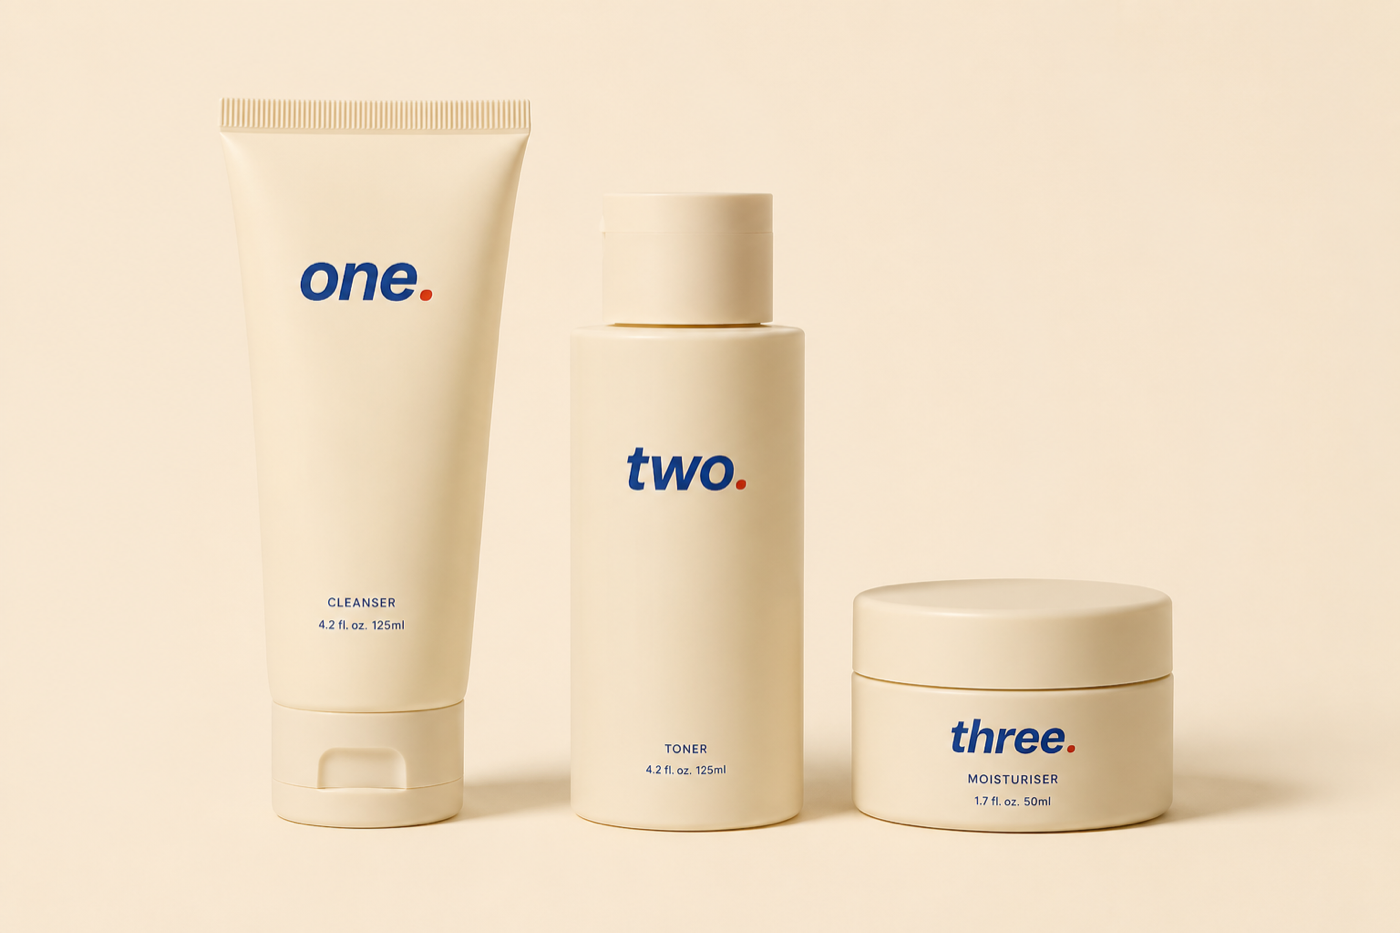
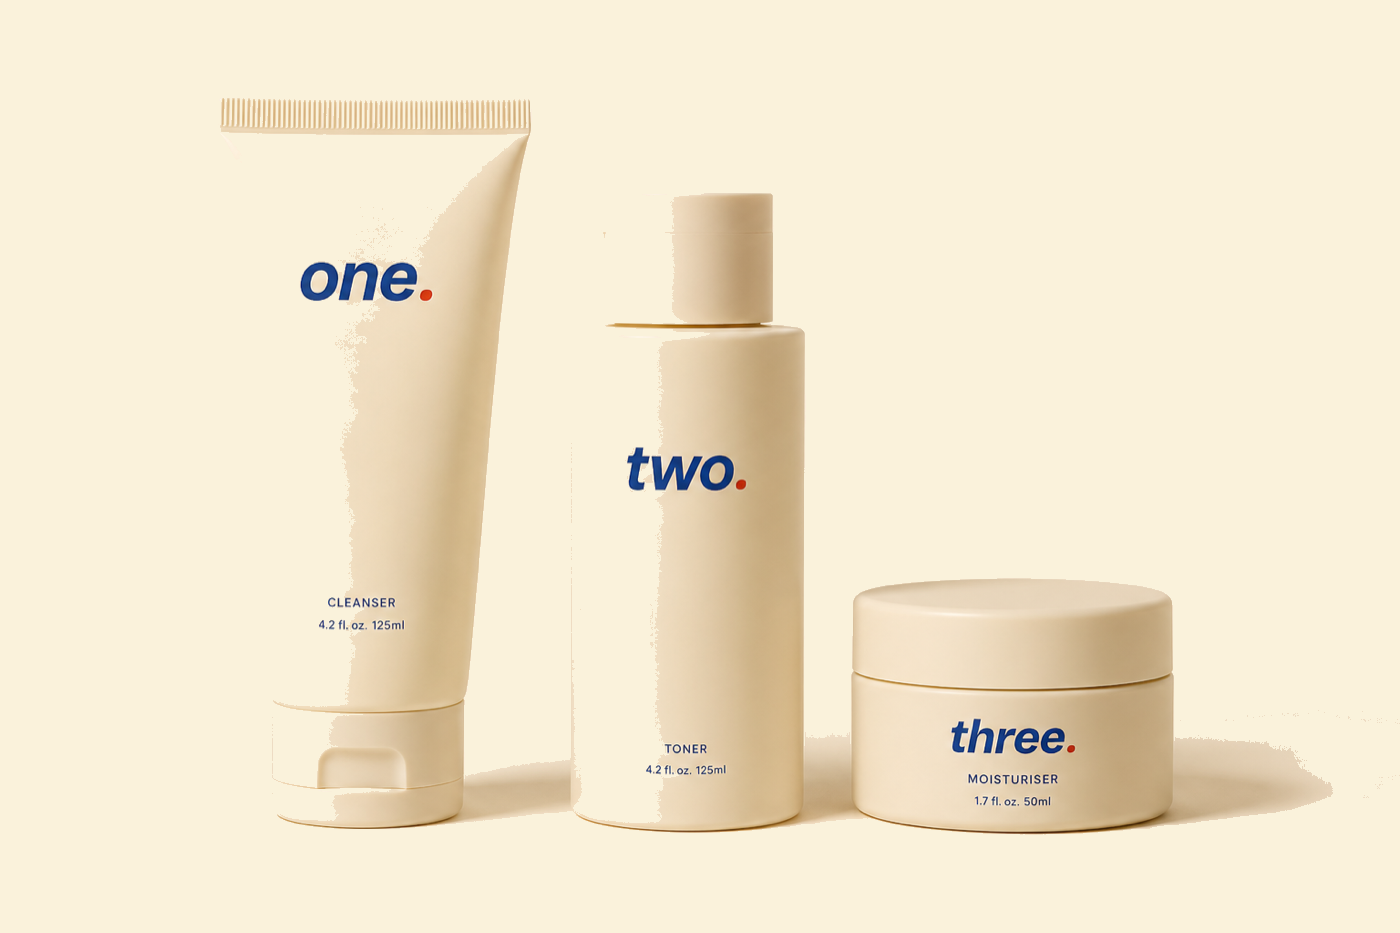
Fix product image cropping and background color
- Replace products.png background (#F3E2C9 cream → #FAF2DB site bg)
  using flood fill from all image edges
- Rewrite TubeProduct CSS crop positions using mathematically derived
  background-size/position values (verified consistent across all sizes):
  tube 0%/50%, bottle 45%/38%, jar 94%/100% at 300% background-size

diff --git a/src/components/TubeProduct.tsx b/src/components/TubeProduct.tsx
@@ -16,11 +16,14 @@ const sizeMap = {
   xl:  { w: 230, h: 308 },
 };
 
-// CSS background-image crop for each product in the 1400×933 group photo
+// Centers of each product in the 1400×933 group photo.
+// backgroundSize: 300% auto → scaled image = 3× container width.
+// Positions derived from: X = (CW/2 - TX·SW/IW) / (CW−SW) × 100
+// (consistent across all container sizes — verified numerically)
 const cropStyle: Record<1 | 2 | 3, React.CSSProperties> = {
-  1: { backgroundSize: "380% auto", backgroundPosition: "3.5% 35%" },
-  2: { backgroundSize: "320% auto", backgroundPosition: "46% 17%" },
-  3: { backgroundSize: "360% auto", backgroundPosition: "88% 100%" },
+  1: { backgroundSize: "300% auto", backgroundPosition: "0% 50%"   }, // tube,   center x≈215
+  2: { backgroundSize: "300% auto", backgroundPosition: "45% 38%"  }, // bottle, center x≈650
+  3: { backgroundSize: "300% auto", backgroundPosition: "94% 100%" }, // jar,    center x≈1110
 };
 
 export function TubeProduct({
@@ -55,7 +58,6 @@ export function TubeProduct({
         backgroundImage: `url(${productsImg})`,
         backgroundRepeat: "no-repeat",
         backgroundColor: "#FAF2DB",
-        backgroundBlendMode: "multiply",
         ...cropStyle[step],
       }}
     />